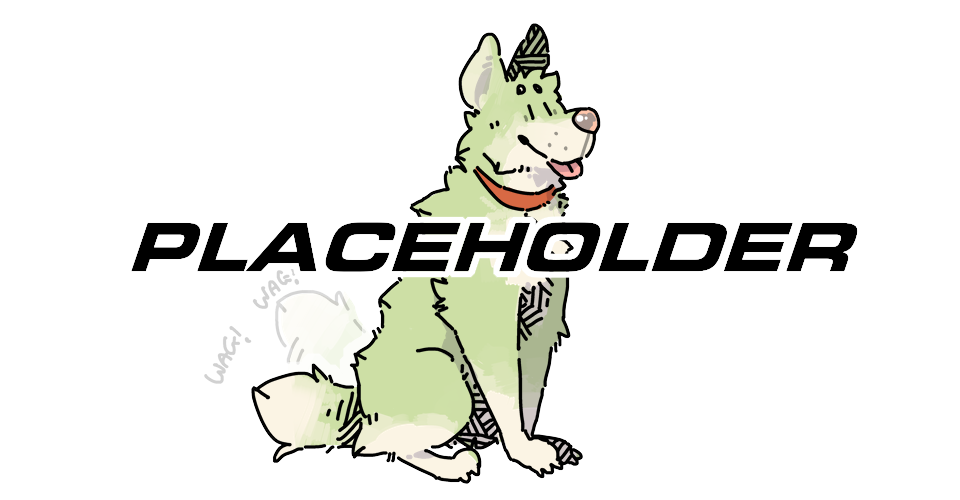
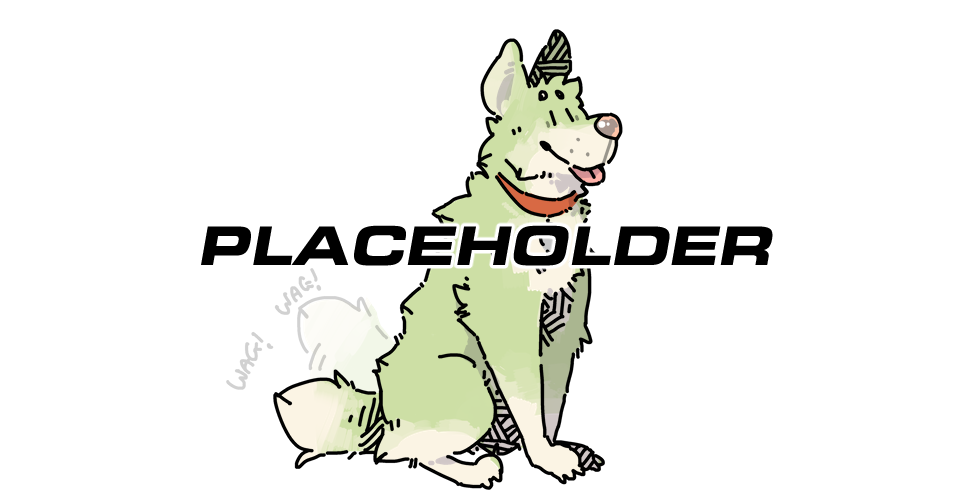
Mark II Block 4

Changed region(s): [[0.125, 0.03, 0.9062, 0.99]]

diff --git a/index.html b/index.html
@@ -10,7 +10,7 @@
 <a href="http://www.cazillustrations.com">dandelionverse</a> - 
 find me elsewhere: <a href="http://www.cazillustrations.com">general contact</a>,
 <a href="http://www.cazillustrations.com">twitter<div></div></a>
-<p><font size="6">CAZ ILLUSTRATIONS</font><!--end title--></p><p>Home Page</p></font></center><font size="+1">
+<p><font size="6">CAZ'S ILLUSTRATIONS</font><!--end title--></p><p>Home Page</p></font></center><font size="+1">
 <p>[this website is very work-in-progress] Hello! I'm Caz, illustrator and 
 occasional SF author, and you've reached my Internet page. This is, for now, a
  place to store my personal and commercial art for portfolio purposes, as well as some writing on worldbuilding and, in time, short stories and comics.</p>
@@ -23,10 +23,14 @@ occasional SF author, and you've reached my Internet page. This is, for now, a
 </p>
 <font size="+2"><a href="http://www.cazillustrations.com">Space Art</a></font>
 <p>
-<img src="http://www.cazillustrations.com/images/PLACEHOLDER.png" alt="Two animal people, a wolf and a dog, are walking along a waterfront. In the distance a large cityscape is visible, as well as two moons." width="960" vspace="25" height="500" border="0"></p><p><font size="+2"><a href="http://www.cazillustrations.com">Furry Art</a></font>
+<img src="http://www.cazillustrations.com/images/PLACEHOLDER.png" alt="Two animal people, a wolf and a dog, are walking along a waterfront. In the distance a large cityscape is visible, as well as two moons." width="960" vspace="25" height="500" border="0"></p><p><font size="+2"><a href="http://www.cazillustrations.com">Anthropomorphic Art</a></font>
 </p>
 <p>
-
+    <p>
+        <img src="http://www.cazillustrations.com/images/TGRAMSTICKRBANNER.png" alt="A green dog is sitting and wagging its tail expectantly." width="960" vspace="25" height="500" border="0"></p><p><font size="+2"><a href="http://www.cazillustrations.com">Telegram Stickers</a></font>
+        </p>
+        <p>
+        
 <img src="http://www.cazillustrations.com/images/PLACEHOLDER.png" alt="-no image yet-" width="960" vspace="25" height="500" border="0"></p><p><font size="+2"><a href="http://www.cazillustrations.com">Dandelionverse</a></font></p>
 <p>My hard-science fiction worldbuilding project. More to come.</p>
 </center>
